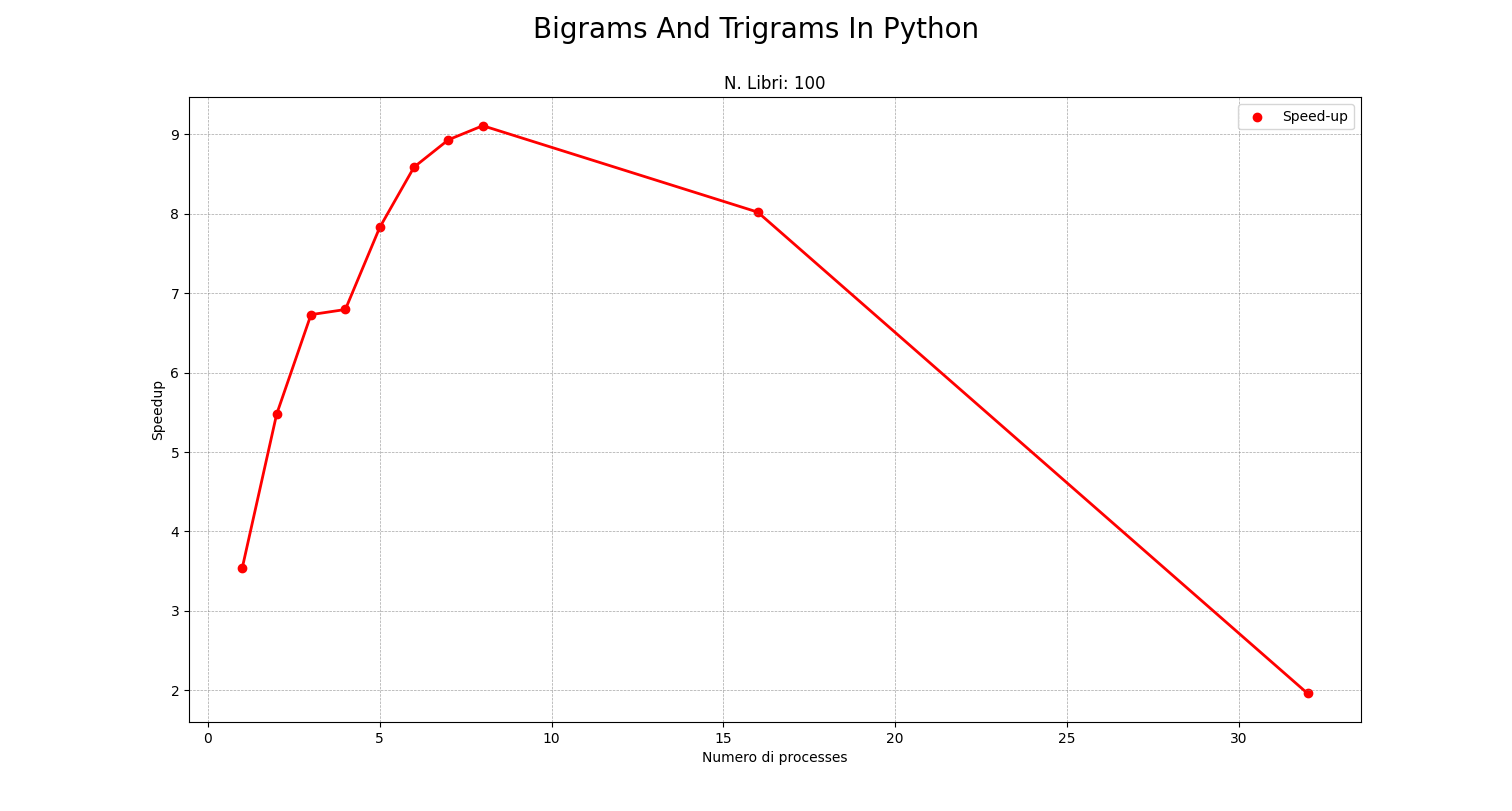
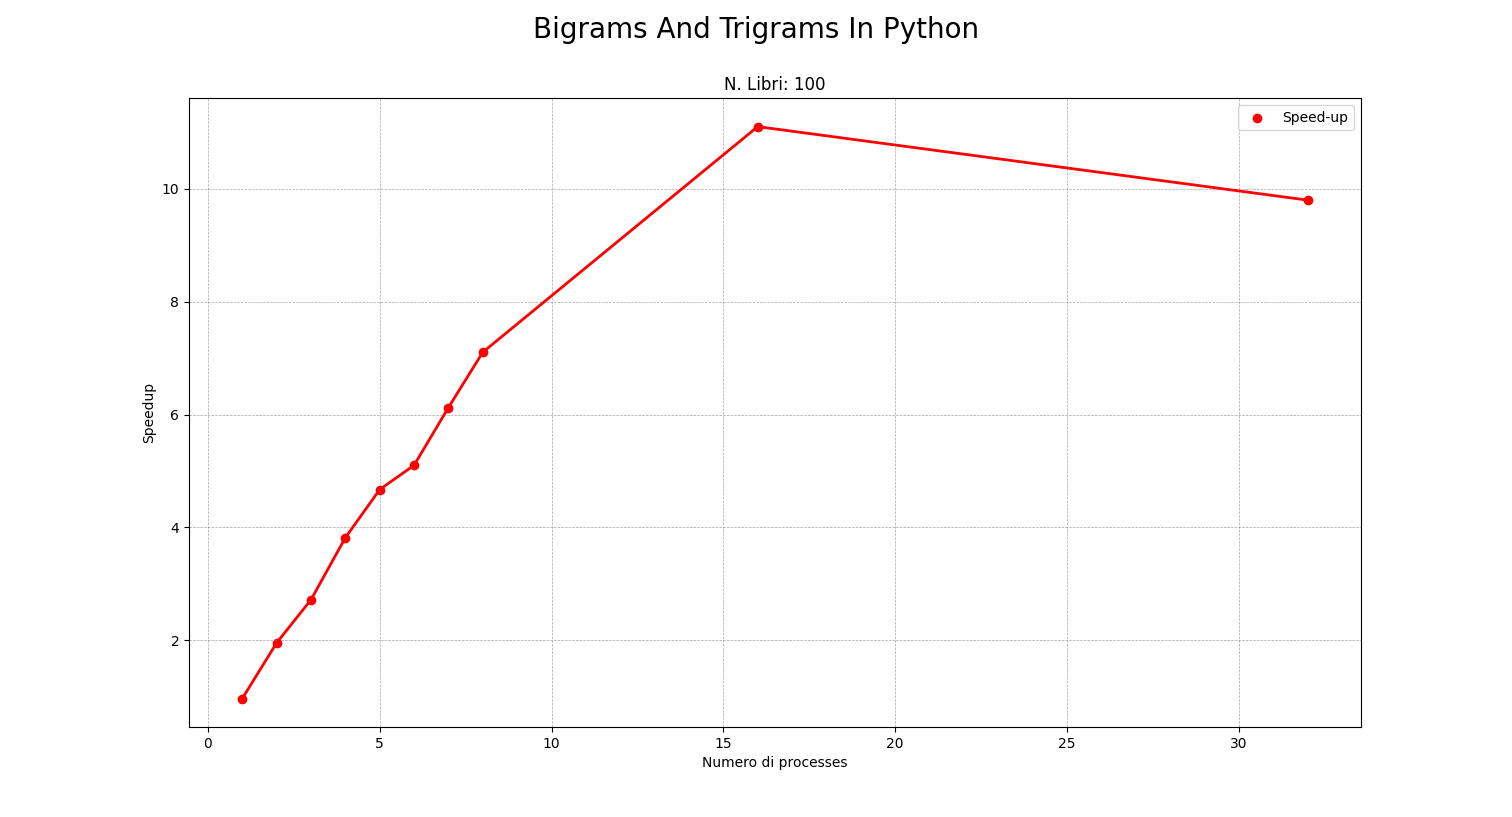
Update Results

diff --git a/FinalTermExam/Results/results.py b/FinalTermExam/Results/results.py
@@ -26,7 +26,7 @@ def sequenziale_parallelo():
     plt.legend()
     plt.show()
 
-def sequenziale_parallelo_extra():
+def sequenziale_parallelo_completo():
     #MAC
     num_book = [10, 50, 100, 500, 1000]
     tempo_esecuzione_sequenziale = [10.29, 88.963, 181.758, 891.633, 1795.717]
@@ -60,11 +60,11 @@ def speed_up_sequenziale_asyncio():
     #MAC
     num_threads = [1, 2, 3, 4, 5, 6, 7, 8, 16, 32]
     tempo_esecuzione_sequenziale = [181.758]
-    tempo_esecuzione_parallelo_multiprocessing=[187.664, 92.992, 66.851, 47.598, 38.908, 35.622, 29.677, 25.581, 16.372, 18.547]
+    tempo_esecuzione_parallelo_asyncio = [51.331, 33.196, 27.009, 26.752, 23.222, 21.166, 20.351, 19.956, 22.663, 92.674]
 
 
     speed_up = []
-    for parallelo in tempo_esecuzione_parallelo_multiprocessing:
+    for parallelo in tempo_esecuzione_parallelo_asyncio:
         risultato = tempo_esecuzione_sequenziale[0] / parallelo
         speed_up.append(risultato)
 
@@ -84,10 +84,10 @@ def speed_up_sequenziale_multiprocessing():
     #MAC
     num_threads = [1, 2, 3, 4, 5, 6, 7, 8, 16, 32]
     tempo_esecuzione_sequenziale = [181.758]
-    tempo_esecuzione_parallelo_asyncio = [51.331, 33.196, 27.009, 26.752, 23.222, 21.166, 20.351, 19.956, 22.663, 92.674]
+    tempo_esecuzione_parallelo_multiprocessing=[187.664, 92.992, 66.851, 47.598, 38.908, 35.622, 29.677, 25.581, 16.372, 18.547]
 
     speed_up = []
-    for parallelo in tempo_esecuzione_parallelo_asyncio:
+    for parallelo in tempo_esecuzione_parallelo_multiprocessing:
         risultato = tempo_esecuzione_sequenziale[0] / parallelo
         speed_up.append(risultato)
 
@@ -126,8 +126,8 @@ def speed_up_parallelo():
     plt.show()
 
 
-sequenziale_parallelo()
-#sequenziale_parallelo_extra()
+#sequenziale_parallelo()
+sequenziale_parallelo_completo()
 #speed_up_sequenziale_asyncio()
 #speed_up_sequenziale_multiprocessing()
 #speed_up_parallelo()
